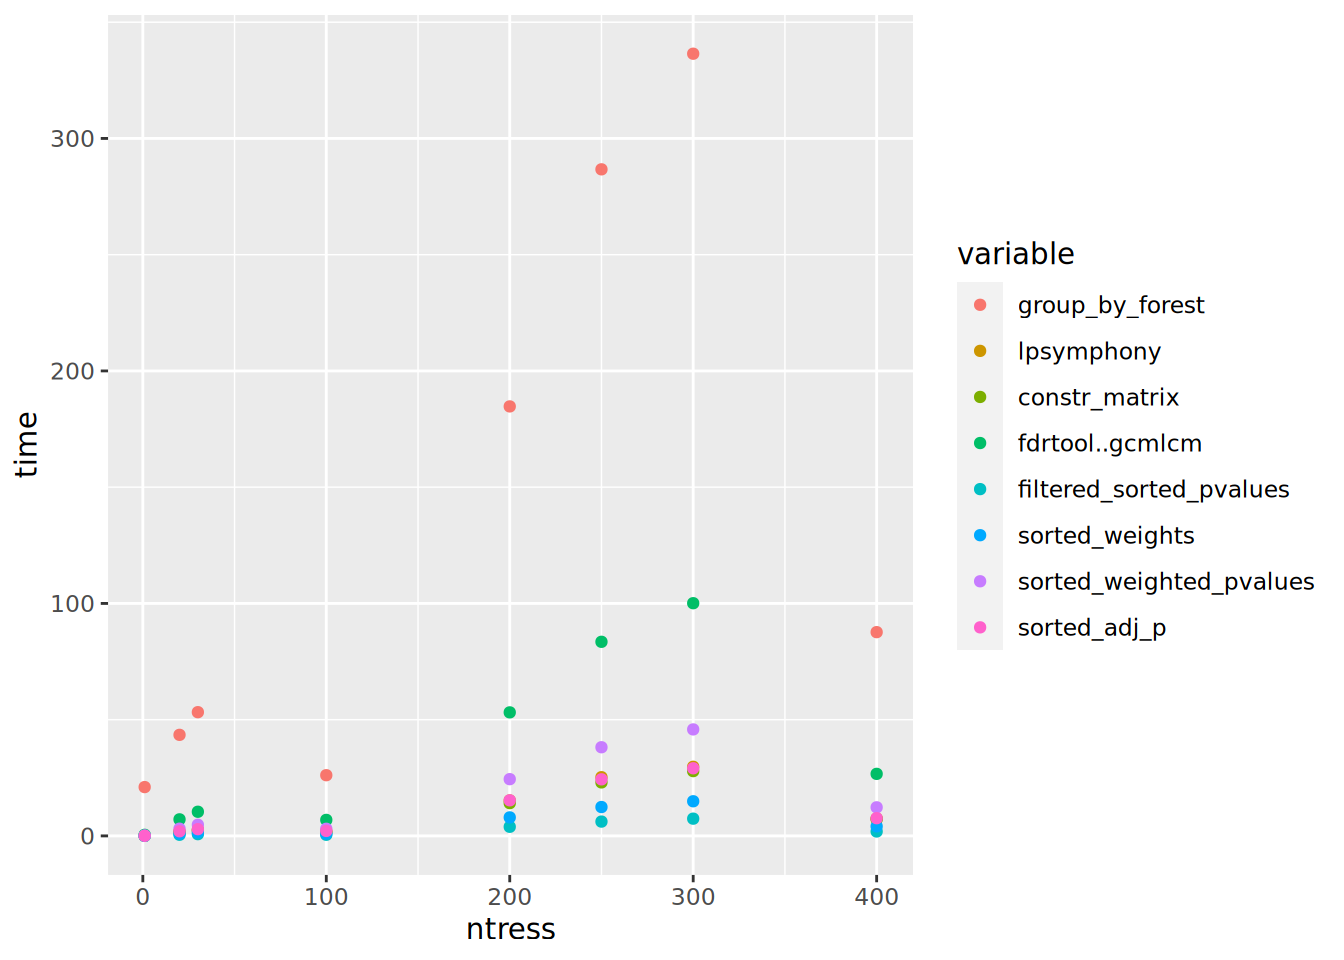
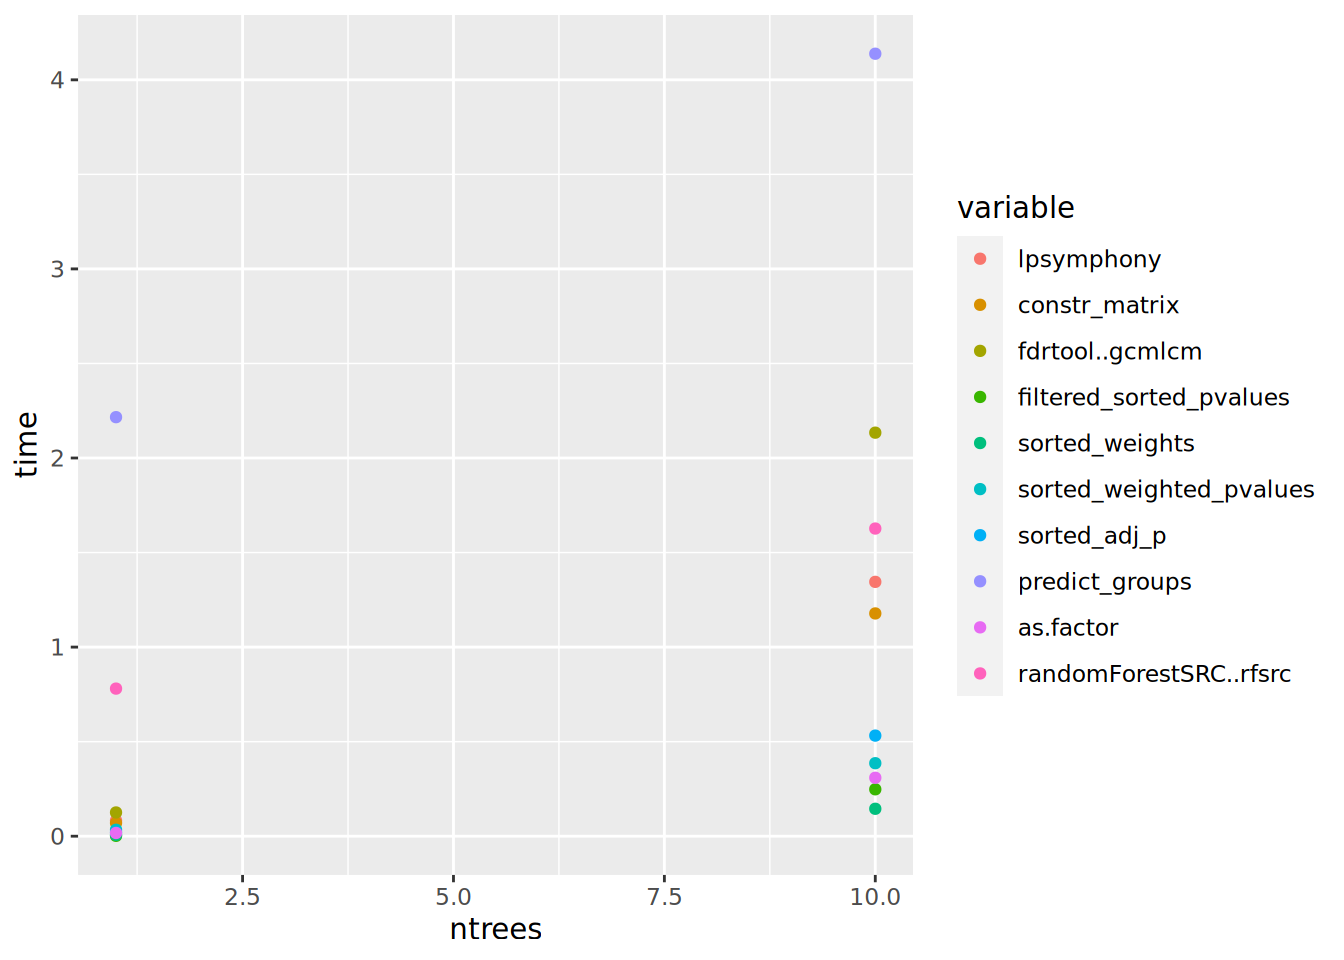
measured time

diff --git a/measure_time_scripts/visualise_time.html b/measure_time_scripts/visualise_time.html
@@ -146,10 +146,10 @@ Attaching package: 'dplyr'</code></pre>
 <div class="cell">
 <div class="sourceCode cell-code" id="cb5"><pre class="sourceCode r code-with-copy"><code class="sourceCode r"><span id="cb5-1"><a href="#cb5-1" aria-hidden="true" tabindex="-1"></a>measured_time <span class="ot">&lt;-</span> <span class="fu">read_csv</span>(here<span class="sc">::</span><span class="fu">here</span>(<span class="st">"measure_time_scripts/data/measured_time.csv"</span>))</span></code><button title="Copy to Clipboard" class="code-copy-button"><i class="bi"></i></button></pre></div>
 <div class="cell-output cell-output-stderr">
-<pre><code>Rows: 12 Columns: 11
+<pre><code>Rows: 3 Columns: 13
 ── Column specification ────────────────────────────────────────────────────────
 Delimiter: ","
-dbl (11): group_by_forest, lpsymphony, constr_matrix, fdrtool..gcmlcm, filte...
+dbl (13): lpsymphony, constr_matrix, fdrtool..gcmlcm, filtered_sorted_pvalue...
 
 ℹ Use `spec()` to retrieve the full column specification for this data.
 ℹ Specify the column types or set `show_col_types = FALSE` to quiet this message.</code></pre>
@@ -159,19 +159,19 @@ dbl (11): group_by_forest, lpsymphony, constr_matrix, fdrtool..gcmlcm, filte...
 <div class="cell">
 <div class="sourceCode cell-code" id="cb7"><pre class="sourceCode r code-with-copy"><code class="sourceCode r"><span id="cb7-1"><a href="#cb7-1" aria-hidden="true" tabindex="-1"></a><span class="co"># Convert data frame to long format</span></span>
 <span id="cb7-2"><a href="#cb7-2" aria-hidden="true" tabindex="-1"></a>measured_time <span class="ot">&lt;-</span> reshape2<span class="sc">::</span><span class="fu">melt</span>(measured_time, </span>
-<span id="cb7-3"><a href="#cb7-3" aria-hidden="true" tabindex="-1"></a>                                <span class="at">id.vars =</span> <span class="fu">c</span>(<span class="st">"m"</span>,<span class="st">"r"</span>,<span class="st">"ntress"</span>),</span>
+<span id="cb7-3"><a href="#cb7-3" aria-hidden="true" tabindex="-1"></a>                                <span class="at">id.vars =</span> <span class="fu">c</span>(<span class="st">"m"</span>,<span class="st">"r"</span>,<span class="st">"ntrees"</span>),</span>
 <span id="cb7-4"><a href="#cb7-4" aria-hidden="true" tabindex="-1"></a>                                <span class="at">value.name =</span> <span class="st">"time"</span>)</span>
 <span id="cb7-5"><a href="#cb7-5" aria-hidden="true" tabindex="-1"></a></span>
 <span id="cb7-6"><a href="#cb7-6" aria-hidden="true" tabindex="-1"></a>measured_time <span class="ot">&lt;-</span> measured_time <span class="sc">%&gt;%</span></span>
-<span id="cb7-7"><a href="#cb7-7" aria-hidden="true" tabindex="-1"></a>  <span class="fu">group_by</span>(m, ntress, variable) <span class="sc">%&gt;%</span></span>
+<span id="cb7-7"><a href="#cb7-7" aria-hidden="true" tabindex="-1"></a>  <span class="fu">group_by</span>(m, ntrees, variable) <span class="sc">%&gt;%</span></span>
 <span id="cb7-8"><a href="#cb7-8" aria-hidden="true" tabindex="-1"></a>  <span class="fu">summarise</span>(<span class="at">time =</span> <span class="fu">mean</span>(time))</span></code><button title="Copy to Clipboard" class="code-copy-button"><i class="bi"></i></button></pre></div>
 <div class="cell-output cell-output-stderr">
-<pre><code>`summarise()` has grouped output by 'm', 'ntress'. You can override using the
+<pre><code>`summarise()` has grouped output by 'm', 'ntrees'. You can override using the
 `.groups` argument.</code></pre>
 </div>
 </div>
 <div class="cell">
-<div class="sourceCode cell-code" id="cb9"><pre class="sourceCode r code-with-copy"><code class="sourceCode r"><span id="cb9-1"><a href="#cb9-1" aria-hidden="true" tabindex="-1"></a><span class="fu">ggplot</span>(measured_time, <span class="fu">aes</span>(<span class="at">x =</span> ntress, <span class="at">y =</span> time, <span class="at">color =</span> variable)) <span class="sc">+</span></span>
+<div class="sourceCode cell-code" id="cb9"><pre class="sourceCode r code-with-copy"><code class="sourceCode r"><span id="cb9-1"><a href="#cb9-1" aria-hidden="true" tabindex="-1"></a><span class="fu">ggplot</span>(measured_time, <span class="fu">aes</span>(<span class="at">x =</span> ntrees, <span class="at">y =</span> time, <span class="at">color =</span> variable)) <span class="sc">+</span></span>
 <span id="cb9-2"><a href="#cb9-2" aria-hidden="true" tabindex="-1"></a>  <span class="fu">geom_point</span>()</span></code><button title="Copy to Clipboard" class="code-copy-button"><i class="bi"></i></button></pre></div>
 <div class="cell-output-display">
 <p><img src="visualise_time_files/figure-html/unnamed-chunk-4-1.png" class="img-fluid" width="672"></p>
